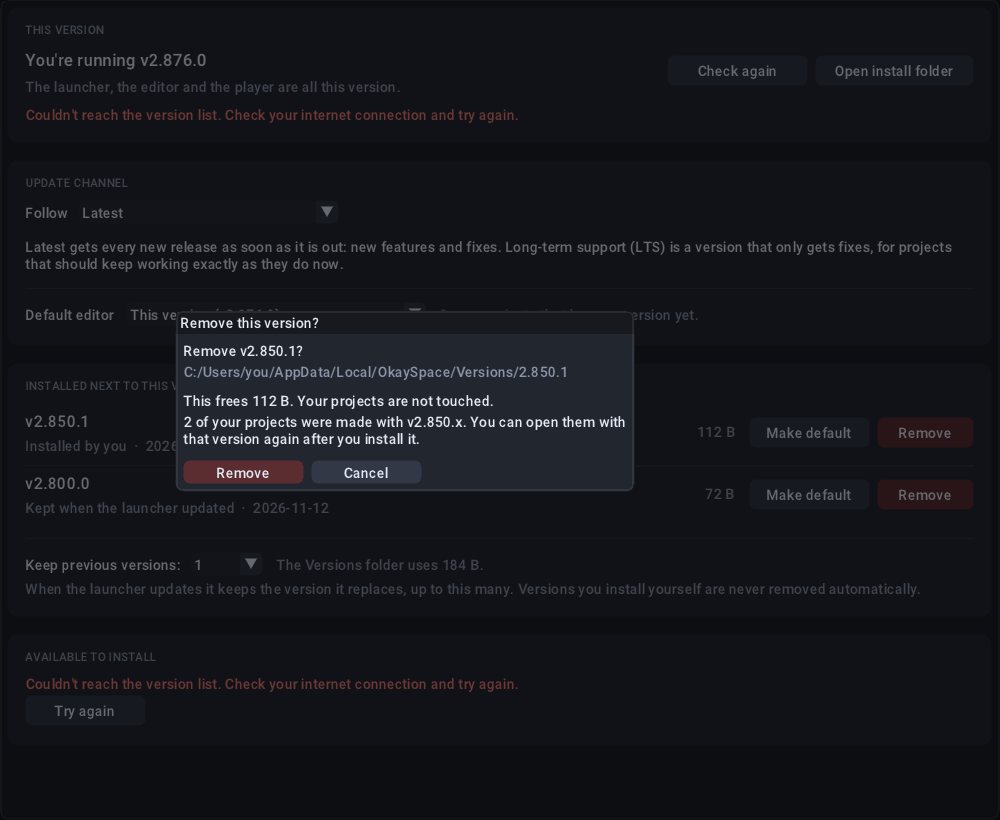
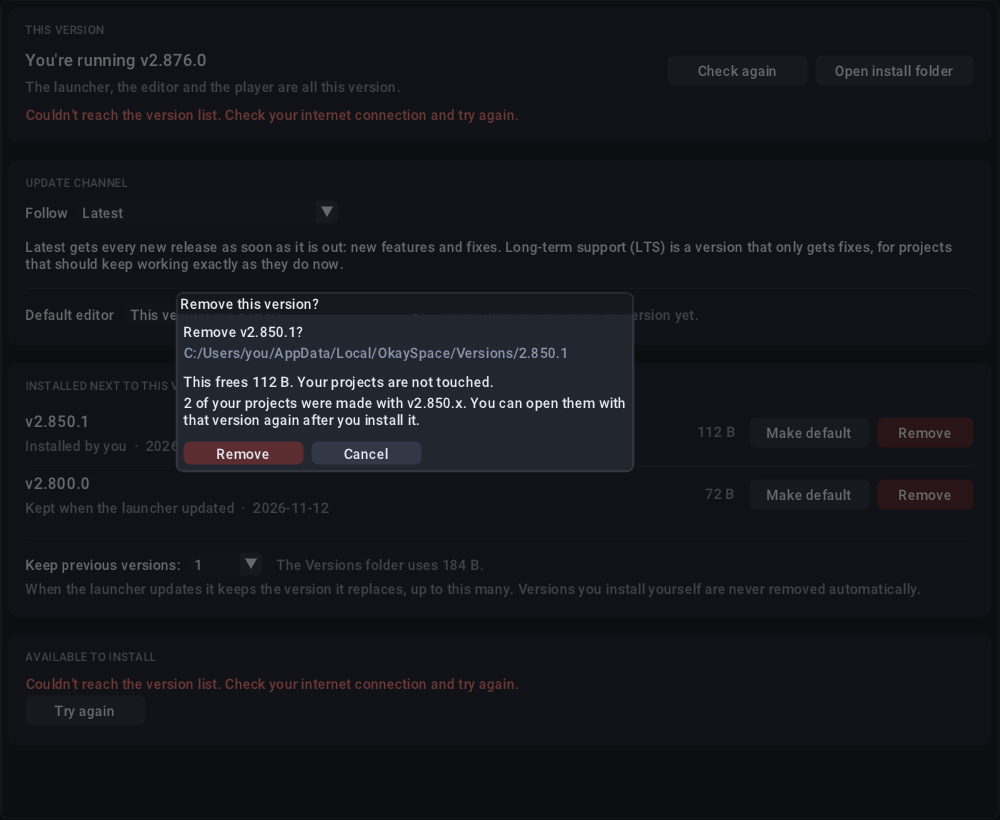
Remove window: the count of projects is shown with the refusal too; test counts in the try-it text
The "N of your projects were made with v2.850.x" line now shows in both states of the Remove window (with a project inside, and when the folder is
clear), as asked. The two headless screenshots were redrawn, the try-it step and launcher_versions.md say so, and the try-it status says
versions_safety is 184 checks (185 when not run as root).

Claude-Session: https://claude.ai/code/session_0124gftgxmU3mkMfJzNgvoMC

Changed region(s): [[0.186, 0.3659, 0.62, 0.6098]]

diff --git a/launcher/VersionsUI.cpp b/launcher/VersionsUI.cpp
@@ -666,8 +666,8 @@ void DrawModals(const Host& h) {
                                                                               : "Nothing is removed.");
         } else {
             ImGui::Text("This frees %s. Your projects are not touched.", HumanSize(bytes).c_str());
-            ImGui::TextUnformatted(ProjectsMadeWithSentence(st.removeProjects, v).c_str());
         }
+        ImGui::TextUnformatted(ProjectsMadeWithSentence(st.removeProjects, v).c_str());   // how many of your projects were made with this version's line
         if (h.editorRunning) ImGui::TextColored(ImGui::ColorConvertU32ToFloat4(kAmber), "An editor is open. A version that editor is using can't be removed.");
         ImGui::PopTextWrapPos();
         ImGui::Dummy(ImVec2(0, 6));

diff --git a/docs/try_it.md b/docs/try_it.md
@@ -315,8 +315,8 @@ What you should see:
    folder with `Assets` and `project.okayproj`; for example copy a folder from `<install>\Projects`). If you have a real older editor you can instead start it,
    File > New Project, and leave the Location on its default.
 3. Press **Remove** on that version. The **Remove this version?** window shows, in amber, "This version folder has a project of yours:
-   `<install>\Versions\<v>\Tools\Projects\MyTest`. Move it out first." There is **no Remove button**: only **Open folder** and **Close**. Press **Open folder**:
-   Explorer shows `...\Tools\Projects` with `MyTest` in it. (What it should look like: `docs/images/versions_safety/remove_refused_project_inside.png`, a headless render, see Status.)
+   `<install>\Versions\<v>\Tools\Projects\MyTest`. Move it out first." There is **no Remove button**: only **Open folder** and **Close**. Under the message is a line saying how many of your projects were made with that
+   version's release line. Press **Open folder**: Explorer shows `...\Tools\Projects` with `MyTest` in it. (What it should look like: `docs/images/versions_safety/remove_refused_project_inside.png`, a headless render, see Status.)
 4. Check that `MyTest` and everything in it is still there and the version is still listed.
 5. Cut `MyTest` and paste it into `<install>\Projects`. Press **Remove** again. The window now says "This frees ... MB. Your projects are not touched." and one
    more line about your projects ("None of your projects were made with v2.700.x." or "3 of your projects were made with v2.850.x. You can open them with that
@@ -326,7 +326,7 @@ What you should see:
 Also: **Remove them now** (shown when more kept copies exist than "Keep previous versions: N") and the clean-up after every update skip a version that has
 a project inside, and the message says which. A folder that has a link to another folder in it (a symbolic link or a junction, not an ordinary `.lnk` shortcut), or is too big to check, is refused the same way.
 
-**Status.** Tested headless on Linux: `versions_safety` 184 checks and `project_upgrade` 490 checks (the new cases were red before the fix: 110 and 11
+**Status.** Tested headless on Linux: `versions_safety` 184 checks (185 when not run as root) and `project_upgrade` 490 checks (the new cases were red before the fix: 110 and 11
 failures), with `project_version` 301, `launcher_versions` 15534 and `editor_hooks` 198 still green (run by hand against the engine libraries of another
 branch's build, so CI is the real check). The real `VersionsManager.cpp` was also cross-compiled with MinGW and run in a scratch program under wine 9.0:
 Windows paths and case folding, Remove refused with a project in `Tools\Projects`, an `.okay`-only folder removed. **Unverified:** everything on real Windows;

diff --git a/docs/launcher_versions.md b/docs/launcher_versions.md
@@ -108,8 +108,8 @@ no editor in it, which used to be deleted whole); discarding a kept copy after a
 
 **The Remove window** looks when it opens (not every frame). With a project inside it shows the message and an **Open folder** button (the
 same opener as "Open install folder"; it shows the folder that holds the project) and **Close**: there is no Remove button until the project is
-moved out (cut it and paste it into your Projects folder). Otherwise it says "This frees 41.2 MB. Your projects are not touched." and how many of
-your projects were made with that release line: "3 of your projects were made with v2.850.x. You can open them with that version again after you
+moved out (cut it and paste it into your Projects folder). Either way it says how many of your projects were made with that release line (after "This frees 41.2 MB.
+Your projects are not touched." when nothing is in the way): "3 of your projects were made with v2.850.x. You can open them with that version again after you
 install it." (`CountProjectsMadeWith`; the project versions are the ones the launcher already reads for the card badges). `Remove` itself looks again,
 so a project that arrives while the window is open is still refused. There is no bulk "remove copies no project needs" yet (audit item 5).
 
